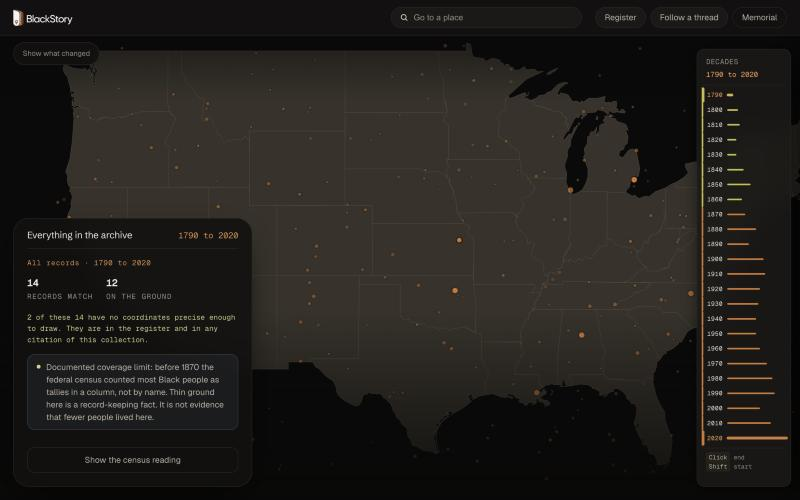
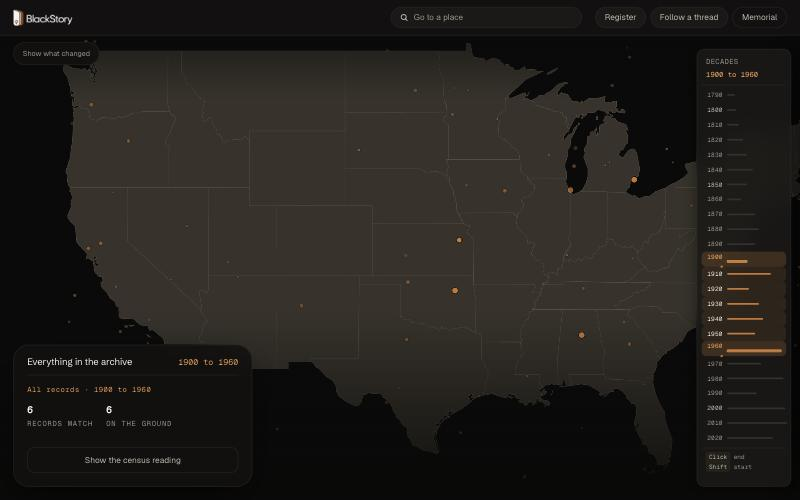
Make the decade range a filled span instead of a per-row side accent
A thick colored border on one side of each in-range row decorated 24
separate cards. A continuous tint across the span reads as one selected
range, which is what the control is for, and the two endpoints carry the
only explicit markers.

diff --git a/docs/redesign/prototype/index.html b/docs/redesign/prototype/index.html
@@ -291,11 +291,18 @@ body[data-mode="record"] #spine,body[data-mode="register"] #spine{opacity:0;poin
   transition:width var(--d-move) var(--e-out),background var(--d-quick) linear}
 .dec[aria-current="true"] .bar{background:var(--ds-accent-graphic)}
 .dec[aria-current="true"][data-regime="unnamed"] .bar{background:var(--cold-line)}
-/* the in-range band, so the RANGE is obvious rather than inferred */
-.dec[aria-current="true"]::before{content:"";position:absolute;left:0;top:0;bottom:0;
-  width:3px;background:var(--ds-accent);border-radius:0 2px 2px 0}
-.dec[aria-current="true"][data-regime="unnamed"]::before{background:var(--cold-line)}
-.dec.edge::before{width:5px}
+/* The in-range span is a continuous fill, not a side accent on each row:
+   the range reads as one block rather than 24 separately decorated cards. */
+.dec[aria-current="true"]{background:color-mix(in srgb,var(--ds-accent) 12%,transparent)}
+.dec[aria-current="true"][data-regime="unnamed"]{
+  background:color-mix(in srgb,var(--cold-line) 12%,transparent)}
+.dec[aria-current="true"]:hover{background:color-mix(in srgb,var(--ds-accent) 20%,transparent)}
+/* only the two endpoints are marked, which is what makes the span legible */
+.dec.edge{background:color-mix(in srgb,var(--ds-accent) 22%,transparent)}
+.dec.edge[data-regime="unnamed"]{background:color-mix(in srgb,var(--cold-line) 22%,transparent)}
+.dec.edge .yr::after{content:"";display:inline-block;width:4px;height:4px;margin-left:5px;
+  border-radius:var(--r-pill);background:var(--ds-accent);vertical-align:middle}
+.dec.edge[data-regime="unnamed"] .yr::after{background:var(--cold-line)}
 
 .spine-ft{padding:var(--ds-space-2);border-top:var(--ds-border-width) solid var(--ds-border);
   margin-top:var(--ds-space-1);font-family:var(--f-mono);font-size:var(--ds-text-micro);
@@ -563,9 +570,7 @@ body[data-tags="on"] #tagbtn{background:#1c3448;border-color:#2e6187;color:#9fd3
     background:var(--ds-surface);padding:2px 6px;border-radius:var(--r-pill);
     border:var(--ds-border-width) solid var(--ds-border)}
   .dec .bar{width:3px !important;min-height:5px;border-radius:2px}
-  .dec[aria-current="true"]::before{left:0;right:0;top:auto;bottom:0;
-    width:auto;height:3px;border-radius:2px 2px 0 0}
-  .dec.edge::before{height:5px}
+  .dec.edge .yr::after{display:none}
 
   /* conditions: two readings, stacked, never colliding */
   #cond{left:var(--s3);right:var(--s3);bottom:134px;width:auto;padding:var(--s3);
